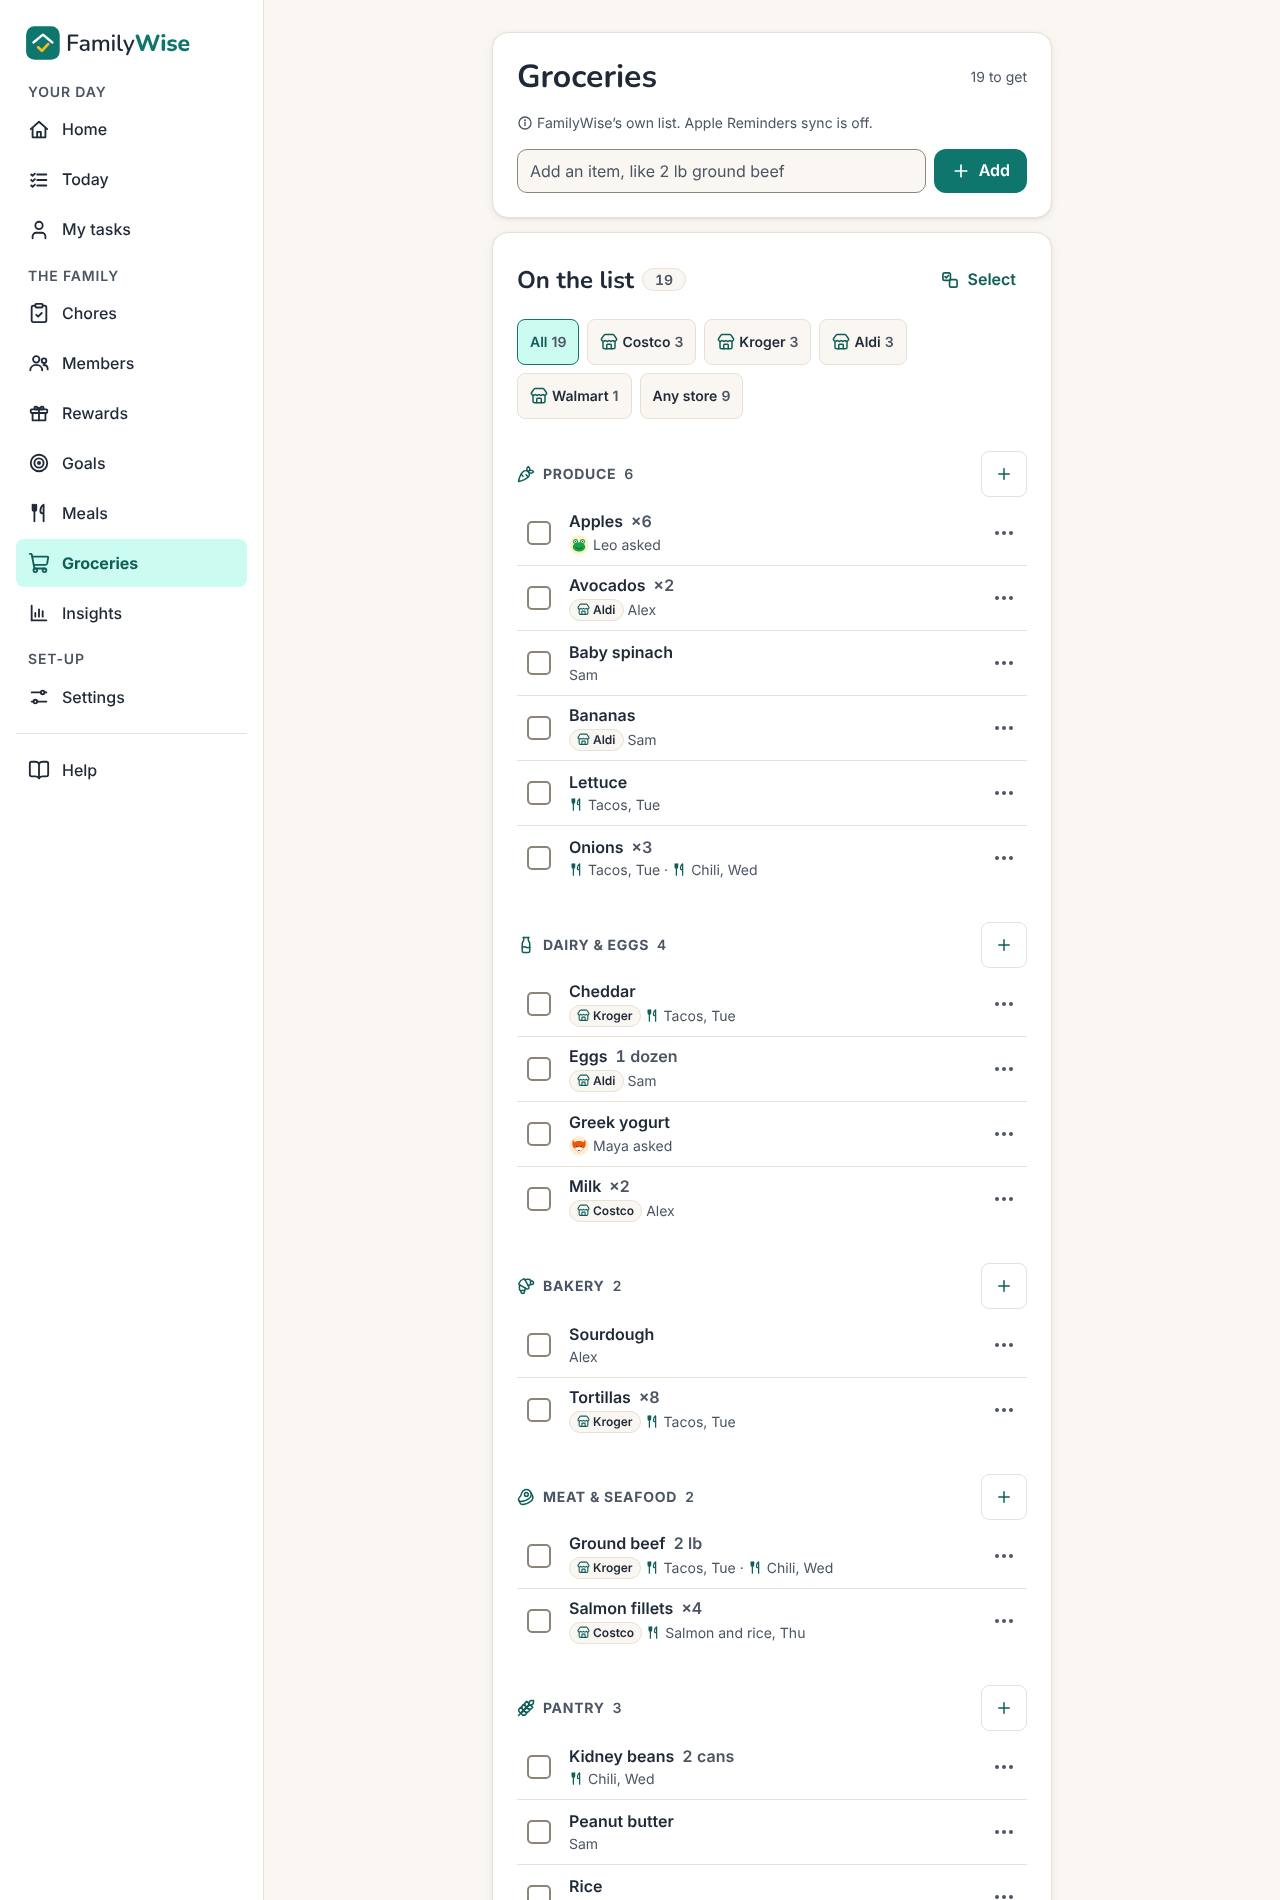
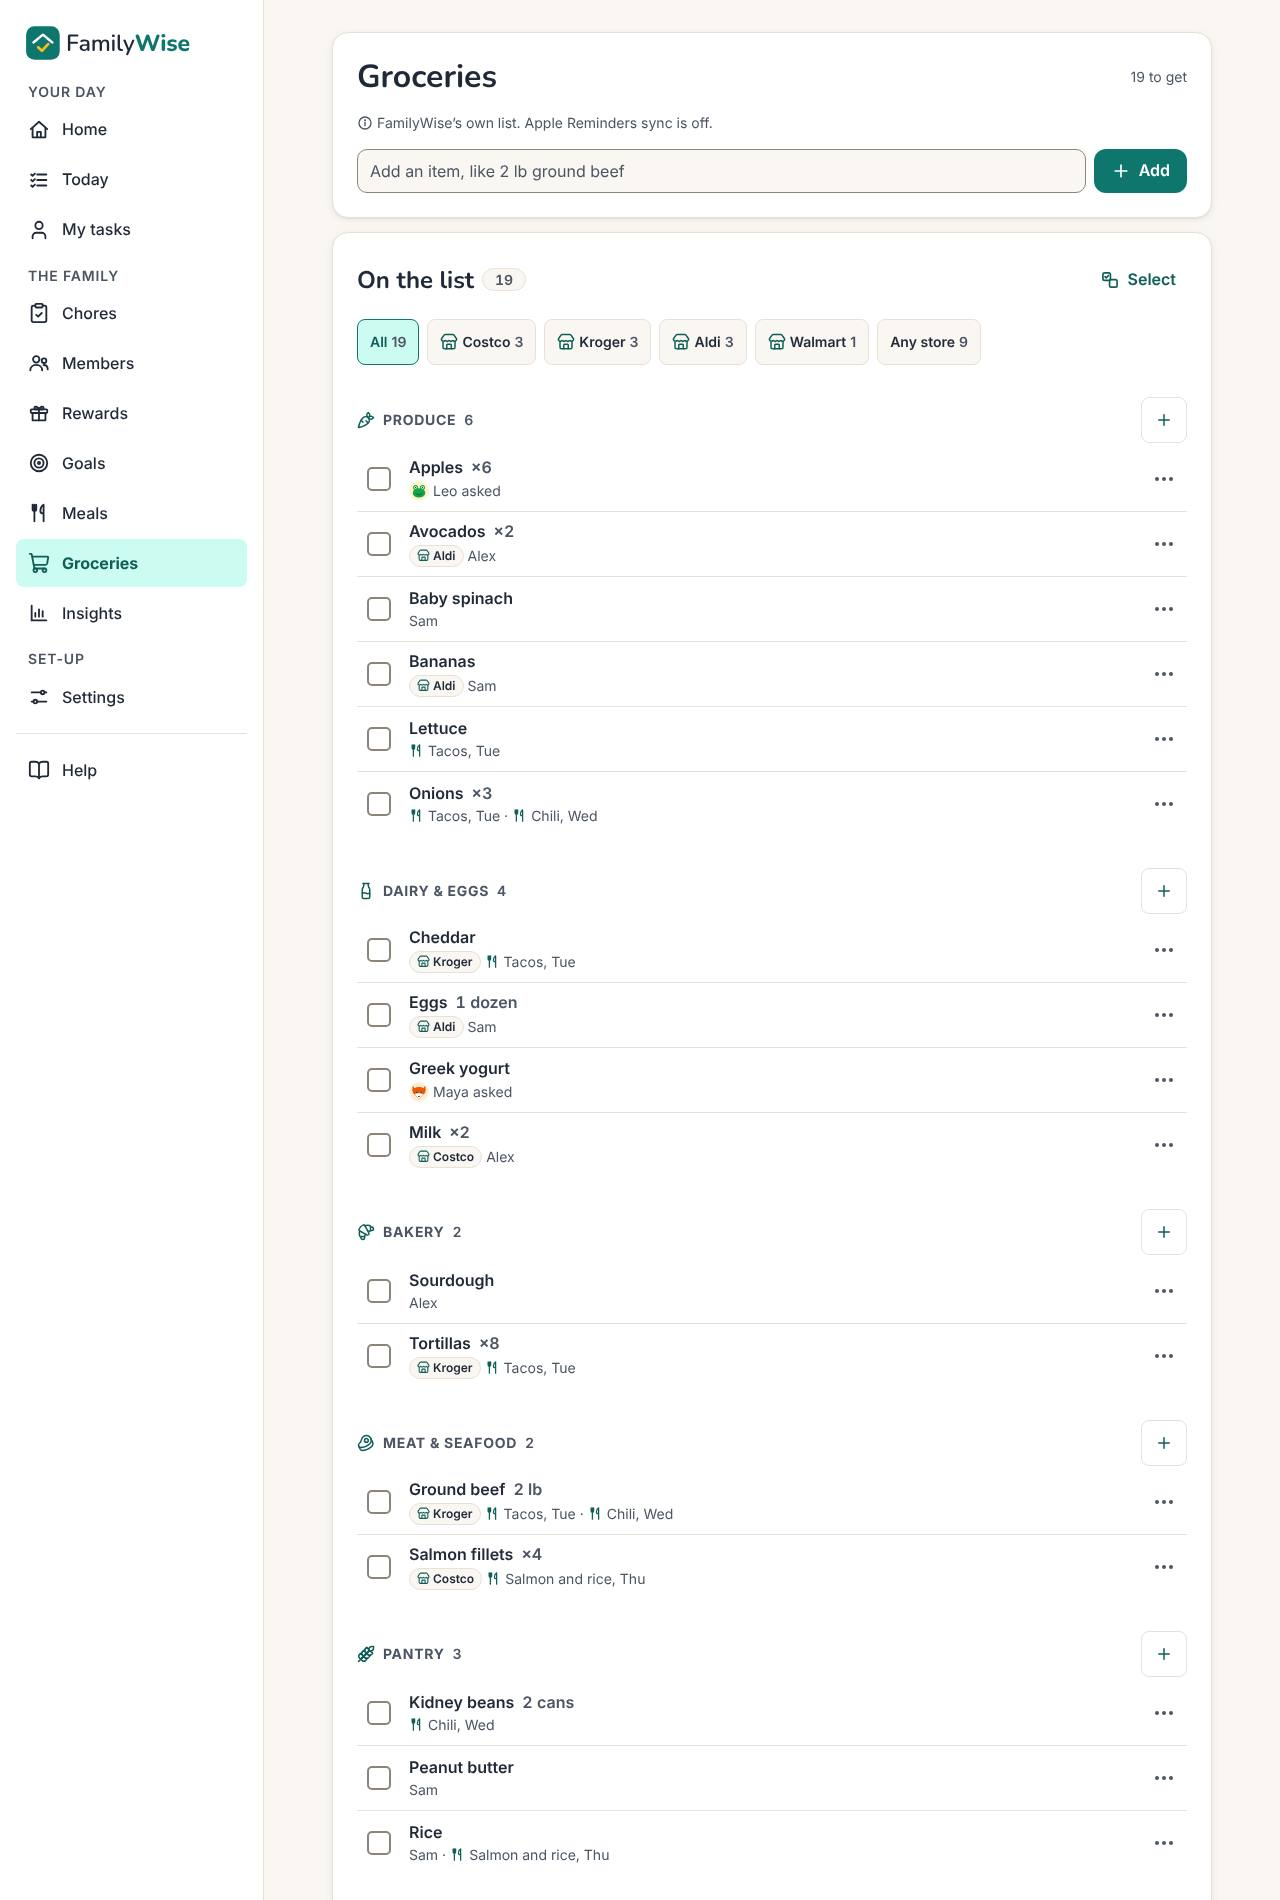
[MEAL-18][MEAL-19][MEAL-23] Side-by-side fixes against the mockup
From the side-by-side with the approved mockup (D-127):
- the week's Add to groceries sheet now fits a phone: it was 32 px wider
  than the screen (box-sizing) and its edges were cut off;
- Groceries in the admin app takes the wide page, as the mockup and
  Meals do;
- an empty list says "Nothing to get", in the admin app and on the board,
  and the board's empty list says so as a heading;
- Got recently shows its count;
- an item's Why says "Merged from n meals" when meals were merged into it.
The guide's pictures that changed are retaken.

Claude-Session: https://claude.ai/code/session_01T5qVAXwe8GAU7rBNwM6E5B

diff --git a/apps/web/app/(admin)/admin/groceries/view.tsx b/apps/web/app/(admin)/admin/groceries/view.tsx
@@ -10,6 +10,7 @@ import {
   sections,
   storeChips,
   type StoreFilter,
+  toGet,
 } from '@/lib/groceries';
 import type { GroceriesData } from './data';
 import { AdminHeader } from '../header';
@@ -90,6 +91,11 @@ function whyDetail(item: GroceryItem, people: readonly Person[]): string[] {
     if (r.kind === 'staple') return `A staple${amount}`;
     return `Added by ${name(r)}${amount}`;
   });
+  const meals = item.reasons.filter((r) => r.kind === 'meal');
+  if (meals.length > 1) {
+    const by = people.find((p) => p.userId !== null && p.userId === meals[0]!.byUser)?.name;
+    lines.push(`Merged from ${meals.length} meals${by ? ` · added by ${by}` : ''}`);
+  }
   if (item.amount) lines.push(`Changed to ${item.amount}`);
   return lines;
 }
@@ -146,7 +152,7 @@ export function GroceriesView({
   const countWords = (n: number) => (n === 0 ? 'Empty' : `${n} on the list`);
 
   return (
-    <main className="fw-page fw-groc">
+    <main className="fw-page fw-page--wide fw-groc">
       <AdminHeader current="/admin/groceries" />
       {error || query.did === 'failed' ? (
         <Banner kind="notice">{error ?? 'That didn’t change. Try again in a moment.'}</Banner>
@@ -159,7 +165,7 @@ export function GroceriesView({
       <section className="fw-card fw-groc__head" aria-labelledby="groceries-heading">
         <div className="fw-bar">
           <h1 id="groceries-heading">Groceries</h1>
-          <span className="fw-muted">{open.length} to get</span>
+          <span className="fw-muted">{toGet(open.length)}</span>
         </div>
         <p className="fw-groc__state">
           <Icon name="info" size={16} />
@@ -378,7 +384,17 @@ export function GroceriesView({
 
       <Fold
         id="got"
-        title="Got recently"
+        title={
+          <>
+            Got recently
+            {got.length > 0 ? (
+              <>
+                {' '}
+                <span className="fw-groc__count">{got.length}</span>
+              </>
+            ) : null}
+          </>
+        }
         headingId="got-heading"
         open={query.open === 'got' || query.did === 'unticked'}
         summary={

diff --git a/e2e/ui/groceries.spec.ts b/e2e/ui/groceries.spec.ts
@@ -92,6 +92,7 @@ test.describe('the admin app’s Groceries', () => {
     await expect(menu).toContainText('Why it’s on the list');
     await expect(menu).toContainText('Tacos, Tue: 1');
     await expect(menu).toContainText('Chili, Wed: 2');
+    await expect(menu).toContainText('Merged from 2 meals');
     await expect(menu.getByRole('link', { name: 'Edit' })).toBeVisible();
     await expect(menu.getByRole('link', { name: /Move to…/ })).toContainText('Produce');
     await expect(menu.getByRole('link', { name: /Store…/ })).toContainText('Any store');
@@ -227,6 +228,7 @@ test.describe('the admin app’s Groceries', () => {
     await open(page, '/dev/groceries');
     const got = page.locator('#got');
     await expect(got).toContainText('Coffee, Sat 4:42 pm, and 3 more this week');
+    await expect(got.locator('.fw-groc__count')).toHaveText('4');
     await got.locator('summary').click();
     const rows = got.getByRole('list', { name: 'Got recently' }).getByRole('listitem');
     await expect(rows.locator('strong')).toHaveText(['Coffee', 'Pasta', 'Strawberries', 'Foil']);
@@ -280,7 +282,7 @@ test.describe('the admin app’s Groceries', () => {
   test('[MEAL-18-d] an empty list says so', async ({ page }) => {
     await open(page, '/dev/groceries?state=empty');
     await expect(list(page)).toContainText('Nothing on the list right now.');
-    await expect(page.getByText('0 to get')).toBeVisible();
+    await expect(page.getByText('Nothing to get')).toBeVisible();
     await fits(page);
   });
 });

diff --git a/apps/web/app/(board)/board/groceries-ui.tsx b/apps/web/app/(board)/board/groceries-ui.tsx
@@ -3,7 +3,14 @@
 import { Avatar, Icon, type IconName } from '@familywise/ui';
 import { useMemo, useState } from 'react';
 import { type BoardGroceries, pictureOf } from '@/lib/board-groceries';
-import { forMeals, itemAmount, sections, storeChips, type StoreFilter } from '@/lib/groceries';
+import {
+  forMeals,
+  itemAmount,
+  sections,
+  storeChips,
+  type StoreFilter,
+  toGet,
+} from '@/lib/groceries';
 import type { BoardMember } from '@/lib/snapshot';
 
 /**
@@ -31,7 +38,7 @@ export function GroceriesBoard({
       <h2 id="bgroc-title" className="fw-bgroc__title">
         <Icon name="shopping-cart" size={56} />
         Groceries
-        <span className="fw-bgroc__sub">{items.length} to get</span>
+        <span className="fw-bgroc__sub">{toGet(items.length)}</span>
       </h2>
       {chips.length > 2 ? (
         <div className="fw-bgroc__chips" role="group" aria-label="Stores">
@@ -52,7 +59,7 @@ export function GroceriesBoard({
       {items.length === 0 ? (
         <div className="fw-bgroc__empty">
           <Icon name="shopping-cart" size={96} />
-          <p>Nothing on the list right now.</p>
+          <h3>Nothing on the list right now</h3>
         </div>
       ) : (
         <div className="fw-bgroc__cols">

diff --git a/packages/ui/src/ui.css b/packages/ui/src/ui.css
@@ -6456,10 +6456,11 @@ details[open] > .fw-lunchday__head .fw-lunchday__chev {
 .fw-bgroc__empty > svg {
   color: var(--primary-text);
 }
-.fw-bgroc__empty p {
+.fw-bgroc__empty h3 {
   margin: 0;
-  color: var(--text-soft);
-  font-size: var(--t-body);
+  font-family: var(--font-display);
+  font-size: var(--t-title);
+  font-weight: 800;
 }
 
 /* [MEAL-07] A meal's ingredients in its form (WP-105): the amount to buy, the name and ×, then We
@@ -6528,6 +6529,7 @@ details[open] > .fw-lunchday__head .fw-lunchday__chev {
   display: grid;
   gap: var(--s-3);
   width: 100%;
+  box-sizing: border-box;
   max-height: 92vh;
   overflow-y: auto;
   padding: var(--s-4) var(--s-4) var(--s-6);

diff --git a/e2e/ui/board-groceries.spec.ts b/e2e/ui/board-groceries.spec.ts
@@ -105,7 +105,10 @@ test('[MEAL-18-e] an emptied list says so; a household with none has no Grocerie
   page,
 }) => {
   await openGroceries(page, 'groceries=empty');
-  await expect(screen(page)).toContainText('Nothing on the list right now.');
+  await expect(screen(page)).toContainText('Nothing to get');
+  await expect(
+    screen(page).getByRole('heading', { name: 'Nothing on the list right now' }),
+  ).toBeVisible();
   expect(await fit(page)).toEqual({ wide: 1920, small: [], tiny: [] });
   await contrastOk(page);
   await page.goto('/dev/board');

diff --git a/apps/web/lib/groceries.ts b/apps/web/lib/groceries.ts
@@ -158,6 +158,11 @@ export type WhyLine =
  * Why an item is on the list, a line per way it came, in the order they came: each meal once, each
  * child who asked, a staple, and who added it (once each).
  */
+/** [MEAL-18] How many are on the list, in words: "19 to get", or "Nothing to get". */
+export function toGet(n: number): string {
+  return n === 0 ? 'Nothing to get' : `${n} to get`;
+}
+
 export function whyLines(item: GroceryItem, people: readonly Person[]): WhyLine[] {
   const lines: WhyLine[] = [];
   const seen = new Set<string>();

diff --git a/docs/07-user-guide.md b/docs/07-user-guide.md
@@ -1579,10 +1579,10 @@ Messages: "Sent. A parent will look at it.", "Back as it was.", "That day can't 
 
 | Part | What it shows or does |
 |---|---|
-| **Groceries** | How many to get. |
+| **Groceries** | How many to get, or **Nothing to get**. |
 | Store chips | **All**, each store with things on the list, **Any store**: each shows only those, still by category. They change only what the board shows. |
 | Categories | A card each, in the household's order, its things A to Z: a picture where one fits, the name and amount, and **For** the meals that need it or the face of each child who asked. |
-| **Nothing on the list right now.** | When the list is empty. |
+| **Nothing on the list right now** | When the list is empty. |
 | Read-only | Nothing here changes the list: it is kept in the admin app. |
 
 ### B3 Rules and limits
